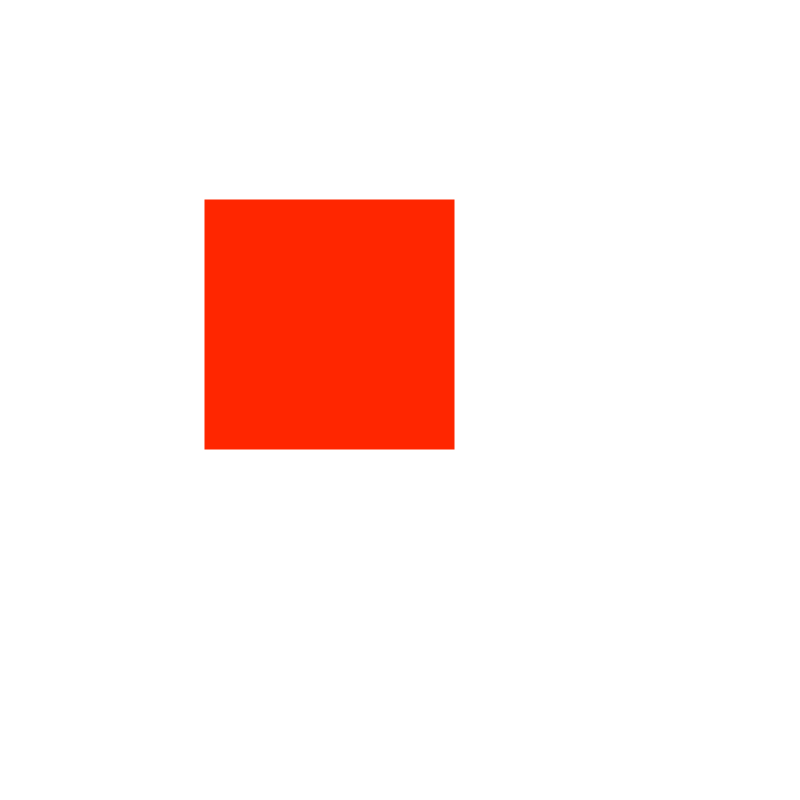
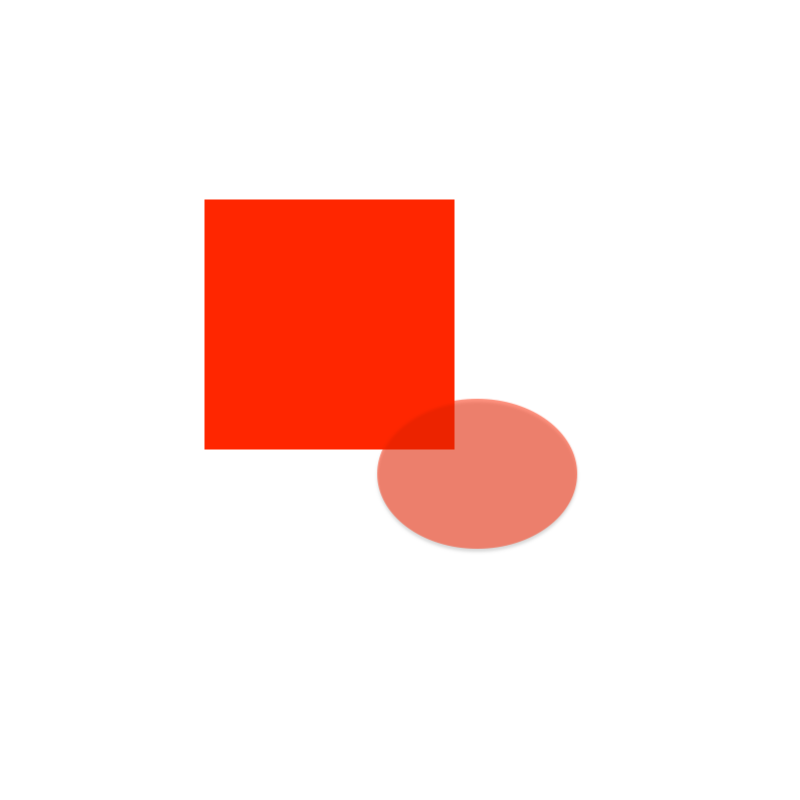
Support (α < 1) stroke (#11)
* Support (α < 1) stroke

* Calculate color in vertex shader

Changed region(s): [[0.4688, 0.5, 0.7188, 0.6875]]

diff --git a/Frameworks/BismushKit/Artboard/Renderer/StrokeRenderer.swift b/Frameworks/BismushKit/Artboard/Renderer/StrokeRenderer.swift
@@ -42,20 +42,6 @@ class StrokeRenderer {
         }
     }
 
-    static let renderPipelineDescriptor: MTLRenderPipelineDescriptor = {
-        let descriptor = MTLRenderPipelineDescriptor()
-        descriptor.colorAttachments[0].isBlendingEnabled = true
-
-        // alpha blending
-        descriptor.colorAttachments[0].rgbBlendOperation = .add
-        descriptor.colorAttachments[0].alphaBlendOperation = .add
-        descriptor.colorAttachments[0].sourceRGBBlendFactor = .one
-        descriptor.colorAttachments[0].destinationRGBBlendFactor = .oneMinusSourceAlpha
-        descriptor.colorAttachments[0].sourceAlphaBlendFactor = .sourceAlpha
-        descriptor.colorAttachments[0].destinationAlphaBlendFactor = .zero
-        return descriptor
-    }()
-
     func render(
         input0: PenInputEvent,
         input1: PenInputEvent,
@@ -123,13 +109,14 @@ class StrokeRenderer {
             renderPassDescription.colorAttachments[0].texture = store.activeLayer.msaaTexture
             renderPassDescription.colorAttachments[0].resolveTexture = store.activeLayer.texture
             renderPassDescription.colorAttachments[0].loadAction = .load
+            renderPassDescription.colorAttachments[0].clearColor = MTLClearColor(red: 0, green: 0, blue: 0, alpha: 0)
             renderPassDescription.colorAttachments[0].storeAction = .storeAndMultisampleResolve
 
             let encoder = commandBuffer.makeRenderCommandEncoder(descriptor: renderPassDescription)!
 
-            let descriptor = Self.renderPipelineDescriptor
+            let descriptor = MTLRenderPipelineDescriptor()
             descriptor.sampleCount = store.activeLayer.sampleCount
-            descriptor.colorAttachments[0].pixelFormat = .bgra8Unorm
+            descriptor.colorAttachments[0].pixelFormat = store.activeLayer.pixelFormat
             descriptor.vertexFunction = store.device.resource.function(.brushVertex)
             descriptor.fragmentFunction = store.device.resource.function(.brushFragment)
             let renderPipelineState = try! store.device.metalDevice.makeRenderPipelineState(descriptor: descriptor)
@@ -145,7 +132,7 @@ class StrokeRenderer {
             )
             encoder.setViewport(viewPort)
             encoder.setVertexBuffer(buffer, offset: 0, index: 0)
-
+            encoder.setVertexTexture(store.activeLayer.texture, index: 2)
             setTransform(encoder: encoder, transform: projection, index: 1)
 
             encoder.drawPrimitives(type: .point, vertexStart: 0, vertexCount: Int(count))
@@ -155,12 +142,12 @@ class StrokeRenderer {
         }
     }
 
-    func setTransform<A, B>(encoder: MTLComputeCommandEncoder, transform: Transform2D<A, B>, index: Int) {
+    private func setTransform<A, B>(encoder: MTLComputeCommandEncoder, transform: Transform2D<A, B>, index: Int) {
         var matrix = transform.matrix
         encoder.setBytes(&matrix, length: MemoryLayout<simd_float4x4>.size, index: index)
     }
 
-    func setTransform<A, B>(encoder: MTLRenderCommandEncoder, transform: Transform2D<A, B>, index: Int) {
+    private func setTransform<A, B>(encoder: MTLRenderCommandEncoder, transform: Transform2D<A, B>, index: Int) {
         var matrix = transform.matrix
         encoder.setVertexBytes(&matrix, length: MemoryLayout<simd_float4x4>.size, index: index)
     }

diff --git a/Frameworks/BismushKit/Artboard/Store/ArtboardLayerStore.swift b/Frameworks/BismushKit/Artboard/Store/ArtboardLayerStore.swift
@@ -20,6 +20,8 @@ class ArtboardLayerStore {
     let texture: MTLTexture
     let msaaTexture: MTLTexture
 
+    let pixelFormat: MTLPixelFormat = .rgba8Unorm
+
     init(canvasLayer: CanvasLayer, context: CanvasContext) {
         self.canvasLayer = canvasLayer
         self.context = context
@@ -29,7 +31,7 @@ class ArtboardLayerStore {
             let description = MTLTextureDescriptor()
             description.width = Int(canvasLayer.size.width)
             description.height = Int(canvasLayer.size.height)
-            description.pixelFormat = .bgra8Unorm
+            description.pixelFormat = pixelFormat
             description.usage = [.shaderRead, .renderTarget, .shaderWrite]
             description.textureType = .type2D
 
@@ -39,7 +41,7 @@ class ArtboardLayerStore {
         }
 
         let desc = MTLTextureDescriptor.texture2DDescriptor(
-            pixelFormat: .bgra8Unorm,
+            pixelFormat: pixelFormat,
             width: texture.width,
             height: texture.height,
             mipmapped: false

diff --git a/Frameworks/BismushKit/Artboard/Renderer/ArtboardLayerRenderer.swift b/Frameworks/BismushKit/Artboard/Renderer/ArtboardLayerRenderer.swift
@@ -38,15 +38,16 @@ class ArtboardLayerRenderer {
     static let renderPipelineDescriptor: MTLRenderPipelineDescriptor = {
         let descriptor = MTLRenderPipelineDescriptor()
         descriptor.colorAttachments[0].pixelFormat = .bgra8Unorm
+
         descriptor.colorAttachments[0].isBlendingEnabled = true
 
         // alpha blending
         descriptor.colorAttachments[0].rgbBlendOperation = .add
         descriptor.colorAttachments[0].alphaBlendOperation = .add
-        descriptor.colorAttachments[0].sourceRGBBlendFactor = .one
+        descriptor.colorAttachments[0].sourceRGBBlendFactor = .sourceAlpha
         descriptor.colorAttachments[0].destinationRGBBlendFactor = .oneMinusSourceAlpha
         descriptor.colorAttachments[0].sourceAlphaBlendFactor = .sourceAlpha
-        descriptor.colorAttachments[0].destinationAlphaBlendFactor = .zero
+        descriptor.colorAttachments[0].destinationAlphaBlendFactor = .oneMinusBlendAlpha
         return descriptor
     }()
 

diff --git a/Frameworks/BismushKit/Artboard/Store/ArtboardStore.swift b/Frameworks/BismushKit/Artboard/Store/ArtboardStore.swift
@@ -27,8 +27,8 @@ public class ArtboardStore: CanvasContext {
         .init(canvas: Canvas(
             layers: [
                 CanvasLayer(layerType: .empty, size: Size(width: 800, height: 800)),
-//                CanvasLayer(layerType: .builtin(name: "hello"), size: Size(width: 800, height: 800)),
-//                CanvasLayer(layerType: .builtin(name: "square"), size: Size(width: 800, height: 800)),
+                CanvasLayer(layerType: .builtin(name: "hello"), size: Size(width: 800, height: 800)),
+                CanvasLayer(layerType: .builtin(name: "square"), size: Size(width: 800, height: 800)),
                 CanvasLayer(layerType: .builtin(name: "yosemite"), size: Size(width: 800, height: 800)),
             ],
             size: Size(width: 800, height: 800)
